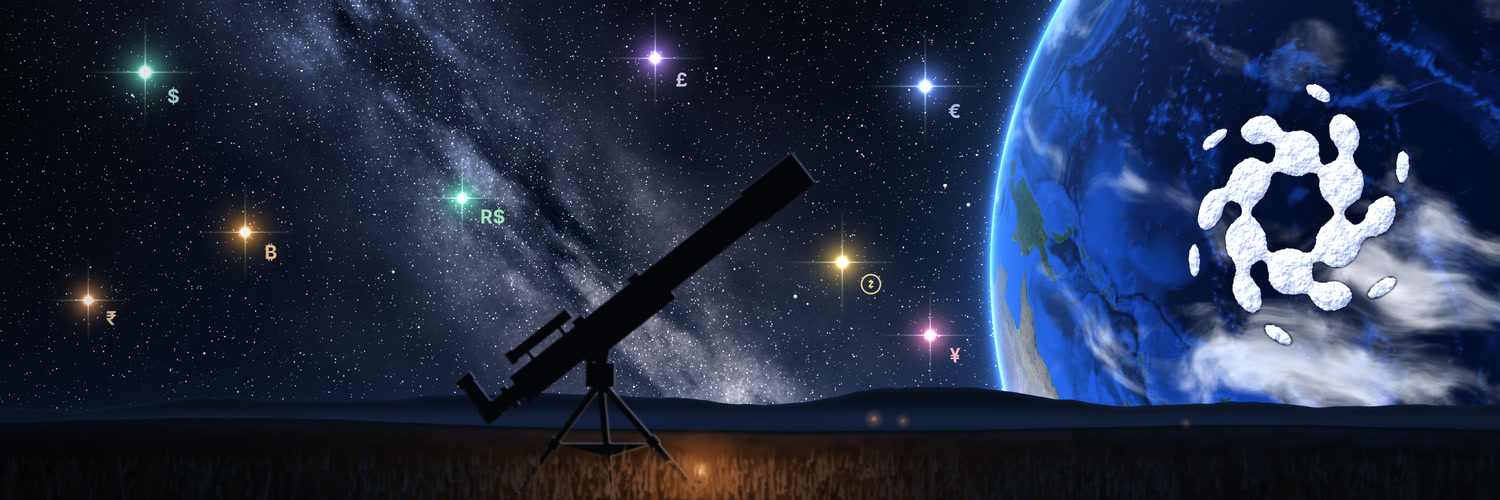
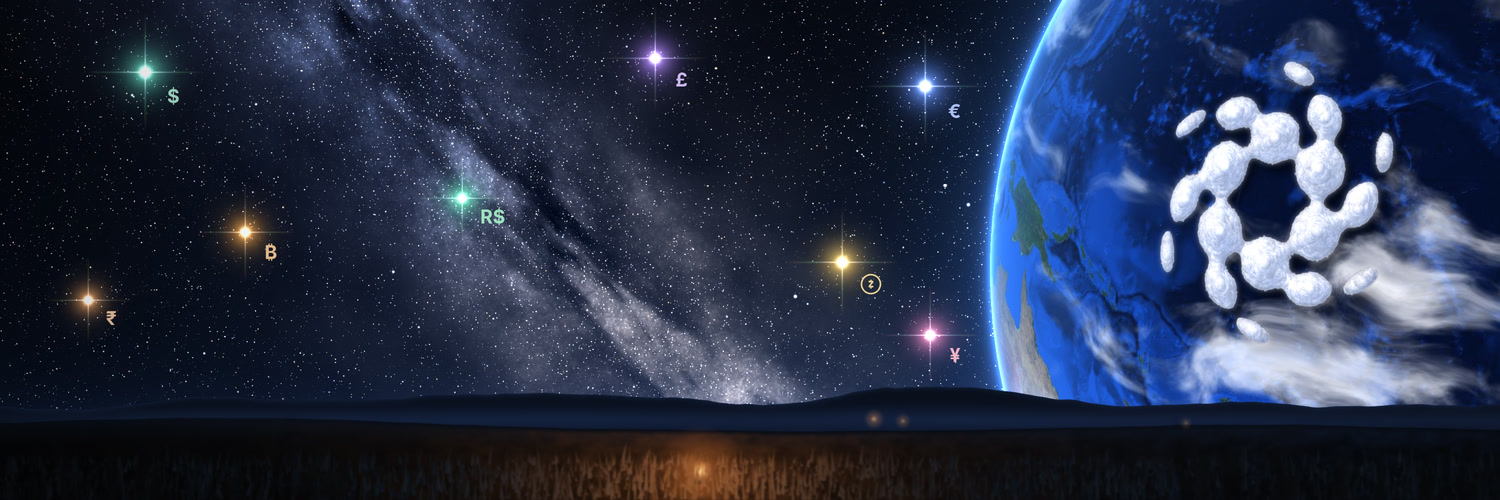
Cinematic header: no telescope, the mark built of cumulus on the planet
x-header-3.jpg drops the telescope and makes the mark on the planet out of real-looking
cloud: thousands of shaded puffs packed inside its shape (big where the shape is deep,
small along its edges, loose wisps at the rim), lit from the upper left, mottled, and
casting a soft shadow on the ocean. It sits smaller and clear of the banner's edge.

Claude-Session: https://claude.ai/code/session_01DKdHaQgnLDw2WZfC9mUzzx

Changed region(s): [[0.7667, 0.12, 0.9507, 0.69], [0.3067, 0.3, 0.552, 0.96]]

diff --git a/downpour/README.md b/downpour/README.md
@@ -178,7 +178,7 @@ Any static host works too, as long as unknown paths fall back to `index.html`.
   the site's sky with its currency stars) are the X profile picture and header;
   `x-header-2.jpg` is the same sky with seven coin tiles on an orbit above the Earth,
   each star in its currency's colour; `x-header-3.jpg` is a night field under the Milky
-  Way with a telescope, the currency stars, and the mark made of clouds on the planet.
+  Way with the currency stars, and the mark built of cumulus on the planet.
   `starmint-teaser.mp4` (30 s) and `starmint-teaser-2.mp4` (46 s) are 1080p promo
   videos built from the site's own screens.
 - `shared/currencies.json`: which currencies exist, with reference rates.
